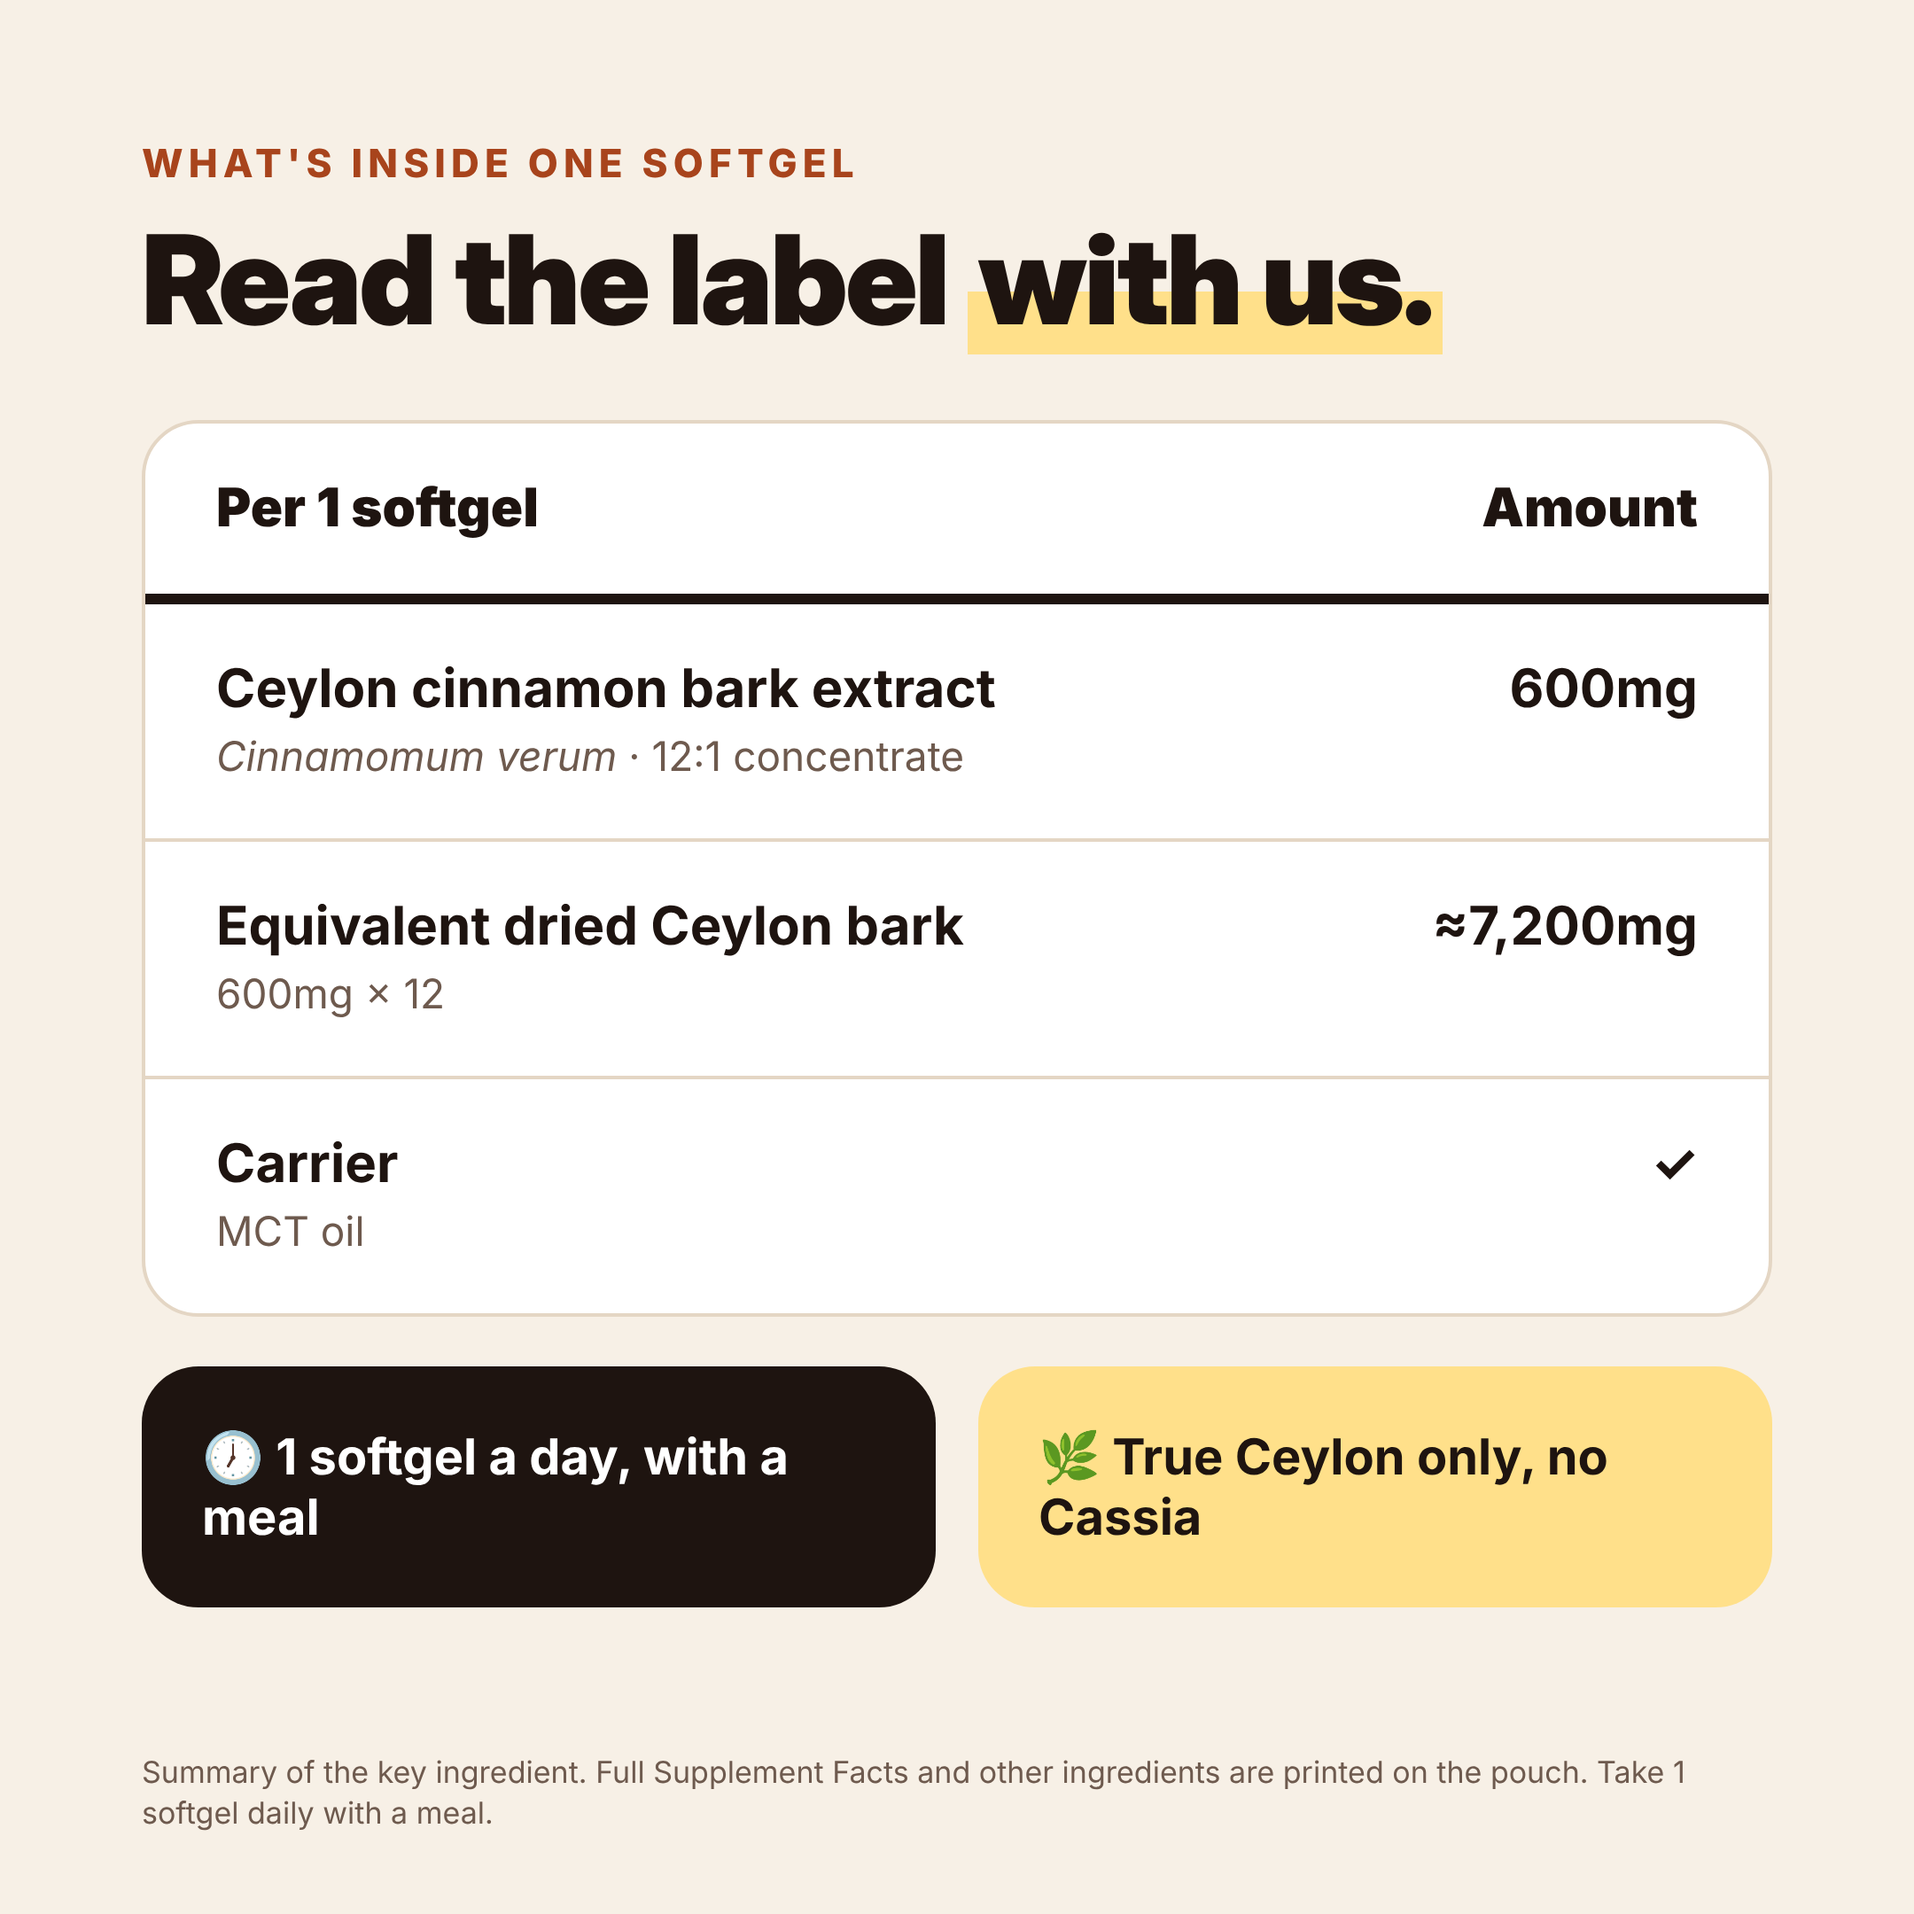
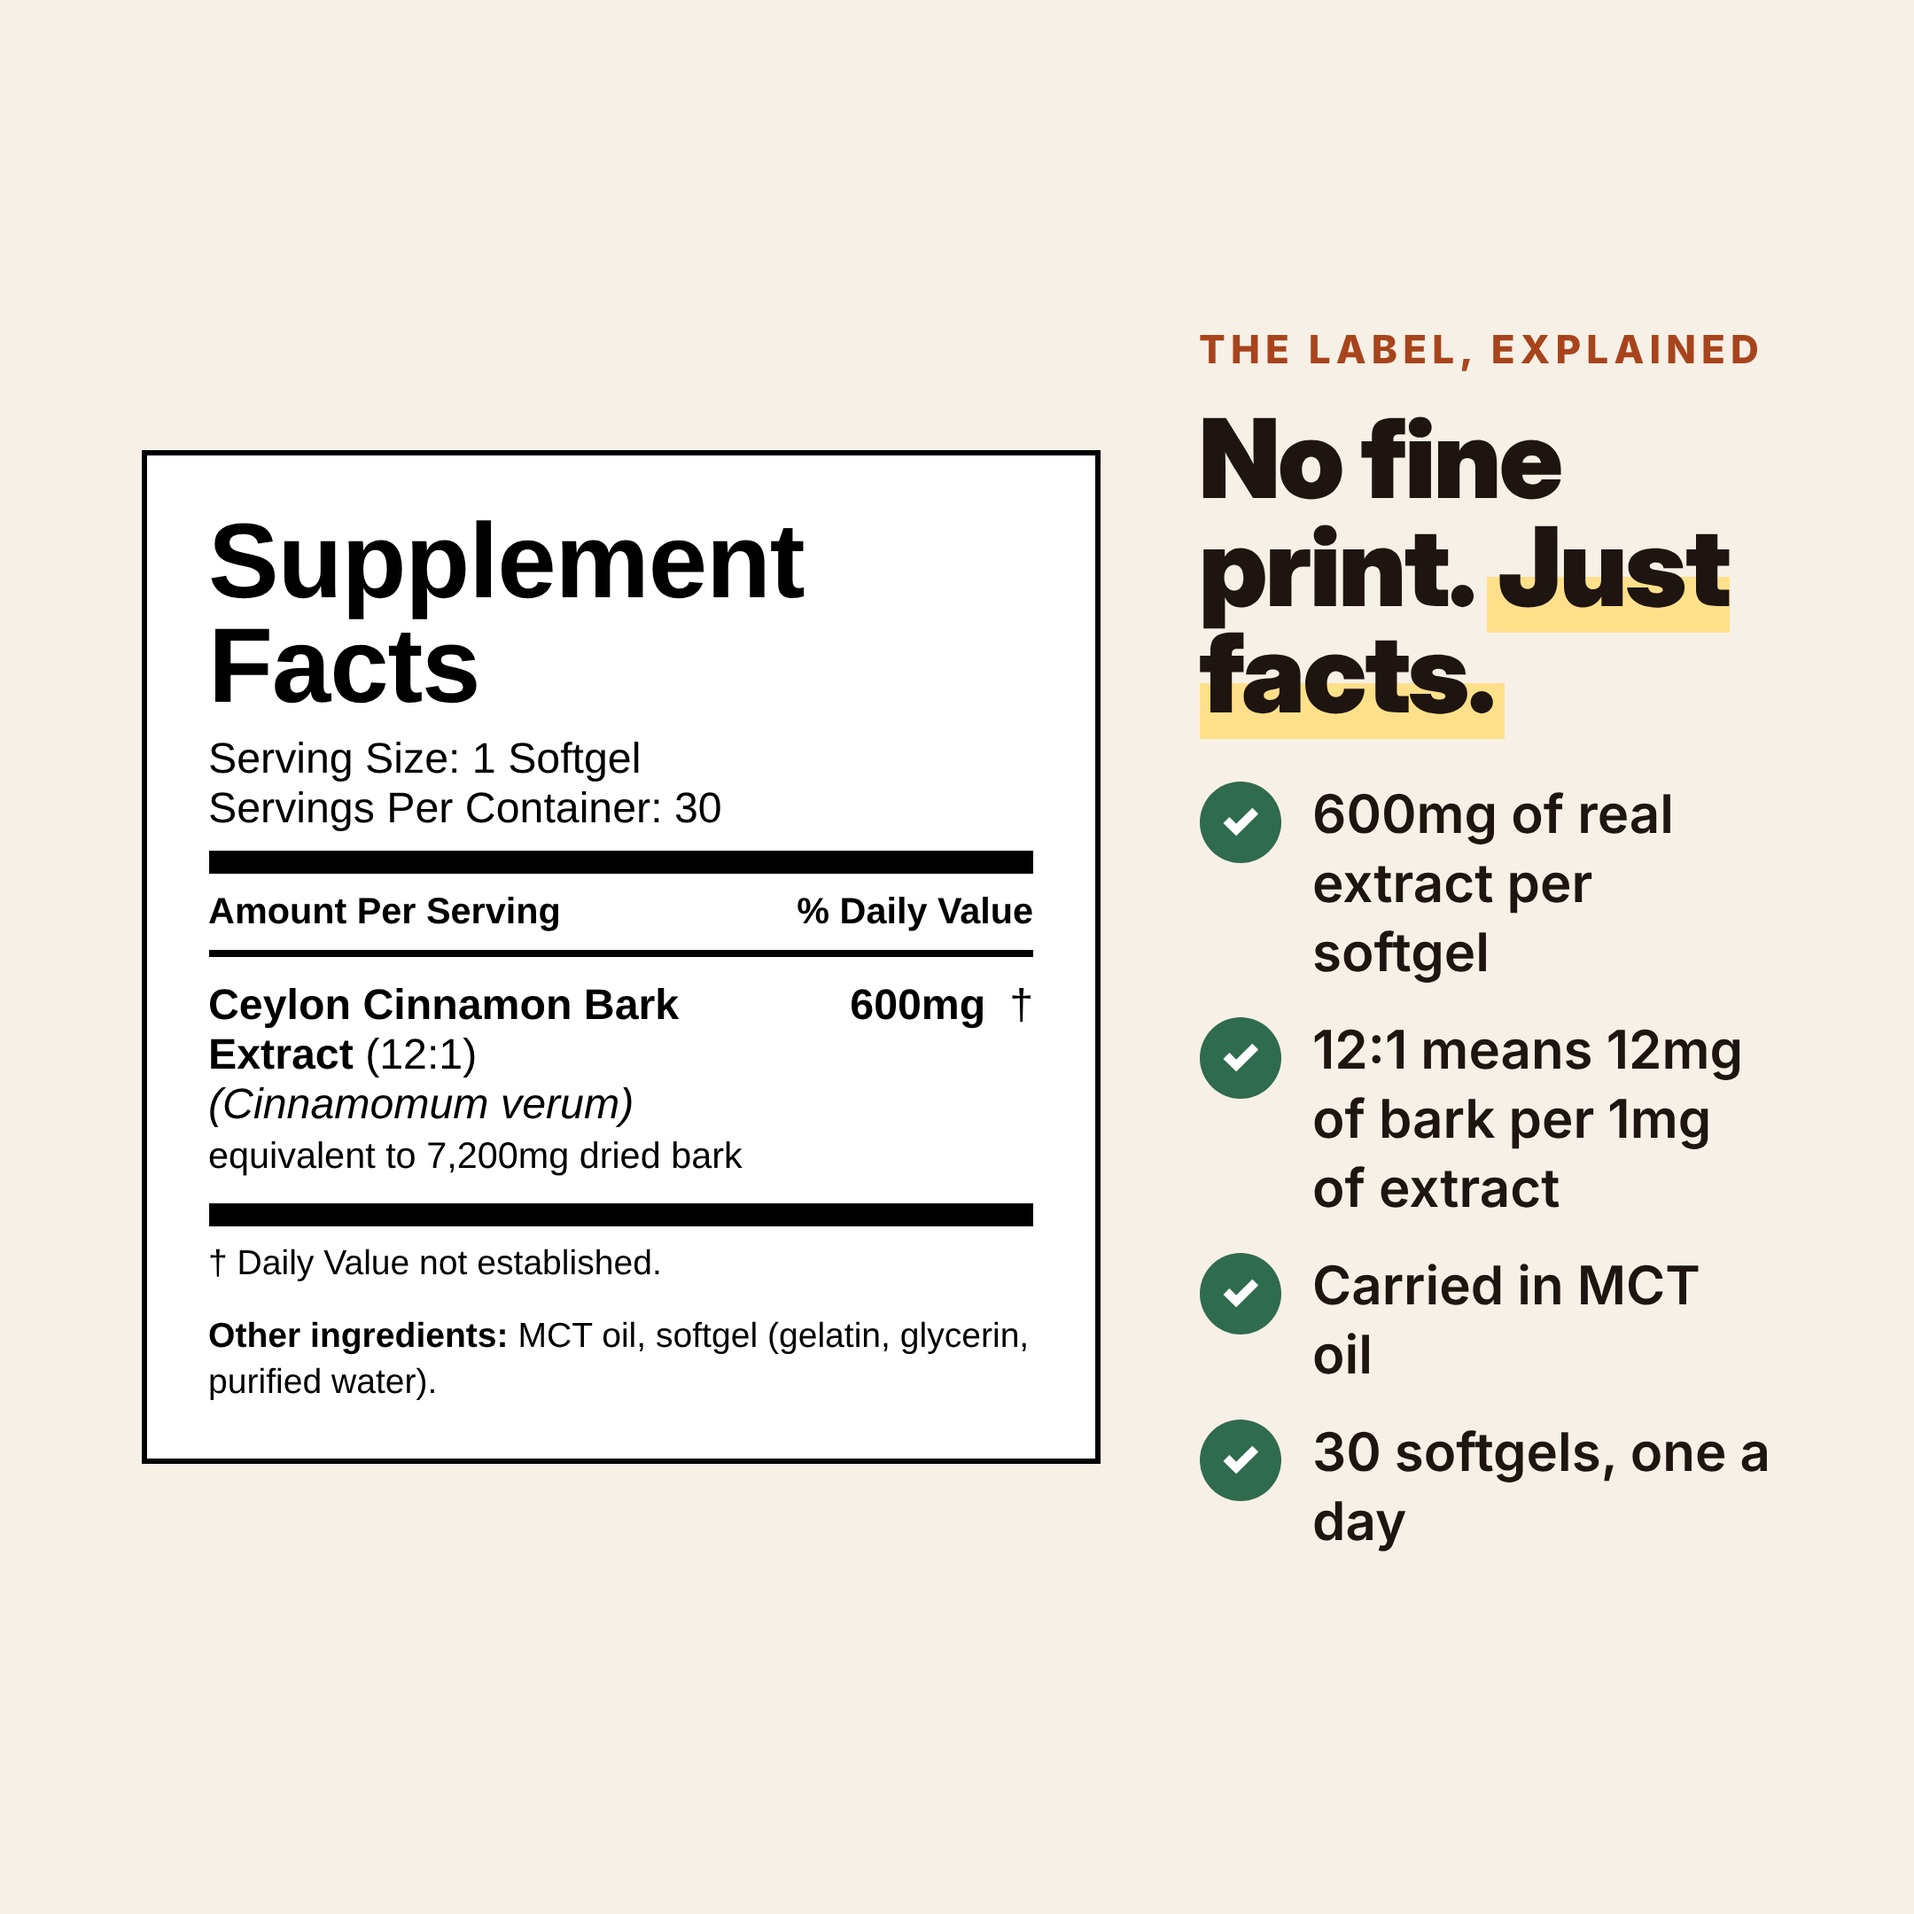
Carousel: Supplement Facts slide and life before/after slide
Claude-Session: https://claude.ai/code/session_01WXdKv4Lmy6DFabBeRvSUZr

diff --git a/ceylon-cinnamon/carousel/slides.html b/ceylon-cinnamon/carousel/slides.html
@@ -42,21 +42,25 @@ h1 em{font-style:normal;background:linear-gradient(transparent 58%,var(--butter)
   <div style="flex:0 0 540px;background:#fff;display:grid;place-items:center;overflow:hidden"><img src="pouch.jpg" style="width:100%;height:auto"></div>
 </div>
 
-<!-- 2 WHAT'S INSIDE -->
-<div class="s" id="s2">
-  <div class="eb">What's inside one softgel</div>
-  <h1 style="font-size:70px">Read the label <em>with us.</em></h1>
-  <div class="card" style="margin-top:44px;padding:0;overflow:hidden">
-    <div style="display:flex;justify-content:space-between;padding:30px 40px;border-bottom:6px solid var(--ink);font-size:30px;font-weight:900"><span>Per 1 softgel</span><span>Amount</span></div>
-    <div style="display:flex;justify-content:space-between;padding:30px 40px;border-bottom:2px solid var(--line);font-size:30px"><span><b>Ceylon cinnamon bark extract</b><br><span style="font-size:23px;color:var(--muted)"><i>Cinnamomum verum</i> · 12:1 concentrate</span></span><b>600mg</b></div>
-    <div style="display:flex;justify-content:space-between;padding:30px 40px;border-bottom:2px solid var(--line);font-size:30px"><span><b>Equivalent dried Ceylon bark</b><br><span style="font-size:23px;color:var(--muted)">600mg × 12</span></span><b>≈7,200mg</b></div>
-    <div style="display:flex;justify-content:space-between;padding:30px 40px;font-size:30px"><span><b>Carrier</b><br><span style="font-size:23px;color:var(--muted)">MCT oil</span></span><b>✓</b></div>
+<!-- 2 SUPPLEMENT FACTS -->
+<div class="s" id="s2" style="flex-direction:row;gap:56px;align-items:center">
+  <div style="flex:0 0 470px;zoom:1.15;background:#fff;border:3px solid #000;padding:26px 30px;font-family:Arial,Helvetica,sans-serif;color:#000">
+    <div style="font-size:52px;font-weight:900;line-height:1;letter-spacing:-.01em">Supplement Facts</div>
+    <div style="font-size:21px;margin-top:8px">Serving Size: 1 Softgel</div>
+    <div style="font-size:21px;border-bottom:12px solid #000;padding-bottom:8px">Servings Per Container: 30</div>
+    <div style="display:flex;justify-content:space-between;font-size:18px;font-weight:700;border-bottom:4px solid #000;padding:8px 0"><span>Amount Per Serving</span><span>% Daily Value</span></div>
+    <div style="display:flex;justify-content:space-between;gap:12px;font-size:21px;border-bottom:12px solid #000;padding:12px 0"><span><b>Ceylon Cinnamon Bark Extract</b> (12:1)<br><i>(Cinnamomum verum)</i><br><span style="font-size:18px">equivalent to 7,200mg dried bark</span></span><span style="white-space:nowrap"><b>600mg</b> &nbsp;†</span></div>
+    <div style="font-size:17px;padding-top:8px">† Daily Value not established.</div>
+    <div style="font-size:17px;margin-top:14px;line-height:1.35"><b>Other ingredients:</b> MCT oil, softgel (gelatin, glycerin, purified water).</div>
   </div>
-  <div class="row" style="margin-top:28px">
-    <div class="card" style="flex:1;background:var(--ink);color:#fff;border:0;font-size:28px;font-weight:700">🕖 1 softgel a day, with a meal</div>
-    <div class="card" style="flex:1;background:var(--butter);border:0;font-size:28px;font-weight:700">🌿 True Ceylon only, no Cassia</div>
+  <div style="flex:1">
+    <div class="eb">The label, explained</div>
+    <h1 style="font-size:62px">No fine print. <em>Just facts.</em></h1>
+    <div class="tick yes" style="margin-top:30px"><b>✓</b>600mg of real extract per softgel</div>
+    <div class="tick yes"><b>✓</b>12:1 means 12mg of bark per 1mg of extract</div>
+    <div class="tick yes"><b>✓</b>Carried in MCT oil</div>
+    <div class="tick yes"><b>✓</b>30 softgels, one a day</div>
   </div>
-  <p class="foot">Summary of the key ingredient. Full Supplement Facts and other ingredients are printed on the pouch. Take 1 softgel daily with a meal.</p>
 </div>
 
 <!-- 3 CEYLON VS CASSIA -->
@@ -110,25 +114,25 @@ h1 em{font-style:normal;background:linear-gradient(transparent 58%,var(--butter)
   <p class="foot">*These statements have not been evaluated by the Food and Drug Administration. This product is not intended to diagnose, treat, cure, or prevent any disease. Talk to your doctor if you take medication.</p>
 </div>
 
-<!-- 6 BEFORE / AFTER (routine, not results) -->
+<!-- 6 BEFORE / AFTER -->
 <div class="s" id="s6">
-  <div class="eb">The routine, before and after</div>
-  <h1 style="font-size:70px">From guessing <br>to <em>one softgel.</em></h1>
+  <div class="eb">Before and after Cinnora</div>
+  <h1 style="font-size:66px">Less guessing. <br><em>More doing.</em></h1>
   <div class="row" style="margin-top:44px;align-items:stretch">
     <div class="card" style="flex:1;background:#EFE6DA;border:0">
       <div style="font-size:30px;font-weight:900;color:var(--muted)">BEFORE</div>
-      <div class="tick no"><b>✕</b>A spoonful of jar cinnamon, usually Cassia</div>
-      <div class="tick no"><b>✕</b>No idea how much you're getting</div>
-      <div class="tick no"><b>✕</b>Dry, bitter, easy to skip</div>
+      <div class="tick no"><b>✕</b>Reading article after article, not sure what to try</div>
+      <div class="tick no"><b>✕</b>A jar of "cinnamon" that's probably Cassia</div>
+      <div class="tick no"><b>✕</b>Good intentions that don't last a week</div>
     </div>
     <div class="card" style="flex:1;background:var(--ink);color:#FBF6EE;border:0">
-      <div style="font-size:30px;font-weight:900;color:var(--butter)">WITH CINNORA</div>
-      <div class="tick yes"><b>✓</b>True Ceylon, low in coumarin</div>
-      <div class="tick yes"><b>✓</b>600mg extract, the same every day</div>
-      <div class="tick yes"><b>✓</b>No taste. Two seconds with dinner</div>
+      <div style="font-size:30px;font-weight:900;color:var(--butter)">AFTER</div>
+      <div class="tick yes"><b>✓</b>One clear choice: true Ceylon, real numbers</div>
+      <div class="tick yes"><b>✓</b>Knowing exactly what you take every day</div>
+      <div class="tick yes"><b>✓</b>A two-second habit you actually keep</div>
     </div>
   </div>
-  <p class="sub" style="margin-top:30px">Keep cinnamon in your kitchen for flavor. Let one softgel handle the daily amount.</p>
+  <p class="sub" style="margin-top:30px">A small step you feel good about, every single evening.</p>
 </div>
 
 <!-- 7 90 DAYS -->

diff --git a/ceylon-cinnamon/CLAUDE.md b/ceylon-cinnamon/CLAUDE.md
@@ -185,3 +185,4 @@ n/v = not publicly verifiable from the pages fetched. Berberine-first brands whe
 - Nov 17 (DRAFT): quiz Q1 = Just me / Someone I care about (gift) / Me and someone else; calmer chip + result styles; BF perk "Ships straight to their door".
 - Nov 17: product carousel, 10 slides 2160x2160 in carousel/ (source slides.html + render.js, Playwright + local Inter). Not uploaded yet: Shopify connector signed out. Order: hero, what's inside, Ceylon vs Cassia, the math, benefits (with FDA disclaimer), routine before/after, first 90 days, price per day, guarantee, gift. Founder pending items: pending founder letter edit ("we" voice) on DRAFT; real Supplement Facts photo from supplier; pouch count 30 vs 300 (mockup says 300).
 - Support email: info@cinnora.co (founder, Nov 17). Use in founder P.S., policies, footer, Shopify sender email.
+- Carousel v2: slide 2 = Supplement Facts panel built from the category spec (1 softgel, 30/pouch, 600mg 12:1 Cinnamomum verum, MCT oil, gelatin softgel). Shell sub-ingredients (glycerin, water) are typical, not verified: check against supplier label. Slide 6 = life before/after (no health outcomes). Pouch count = 30 (research: Camp A spec).
